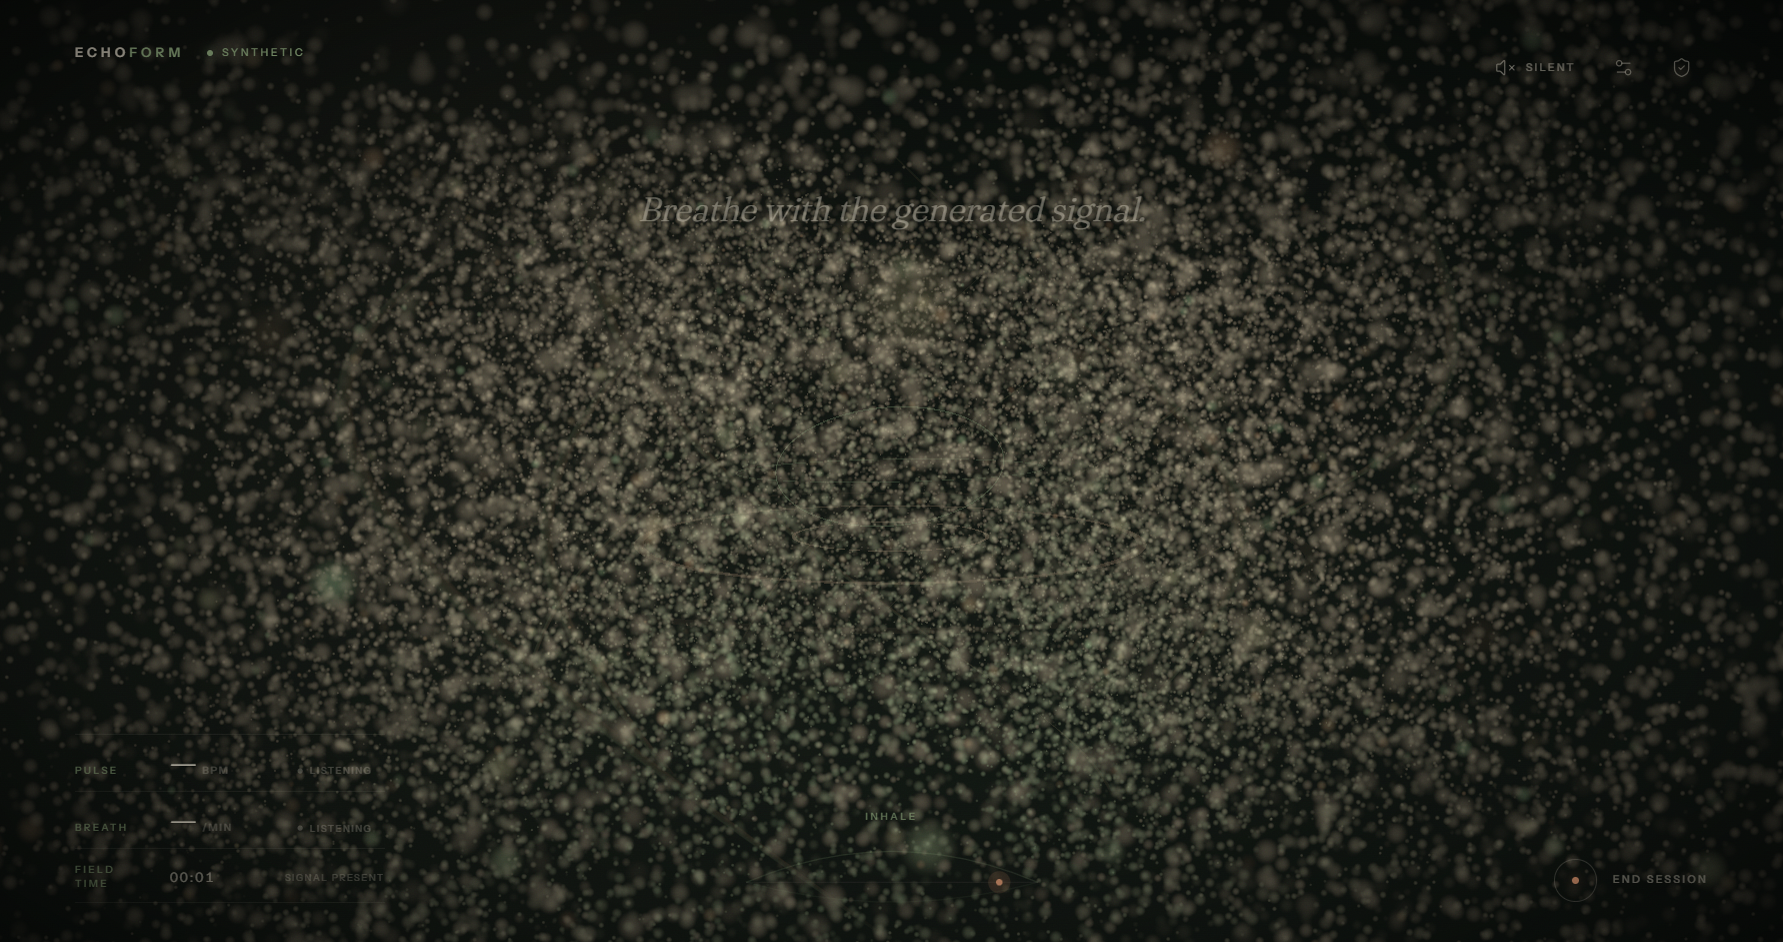
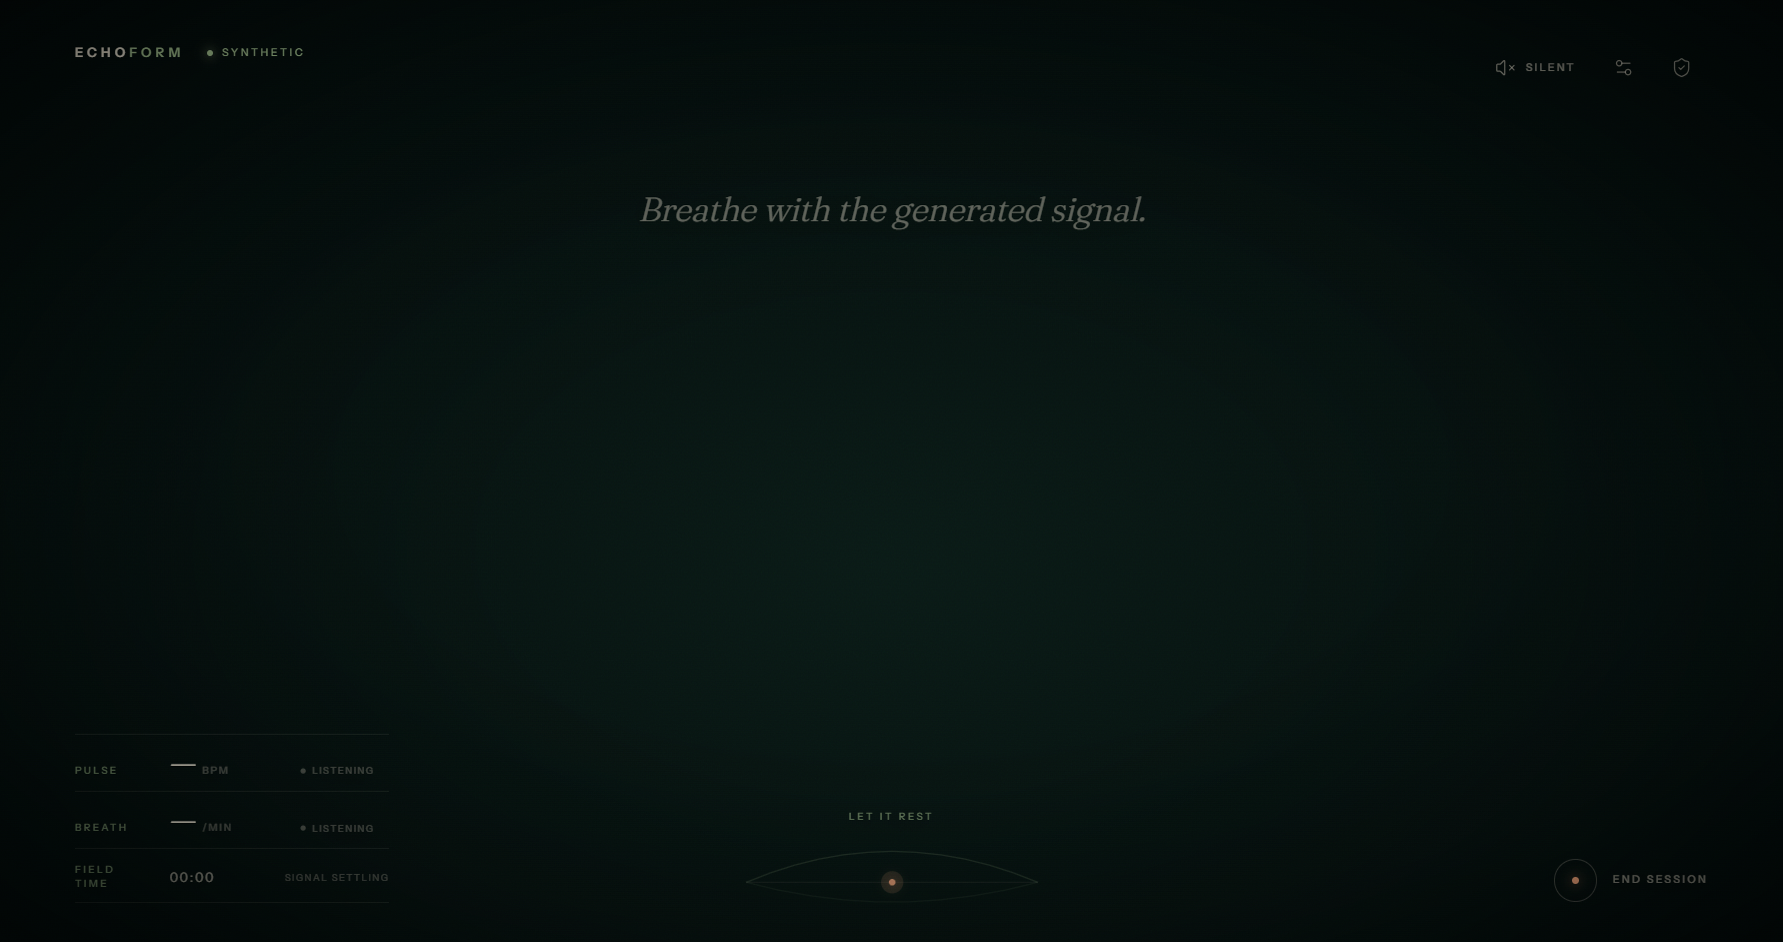
feat: update visual QA capture logic and enhance scene rendering parameters

diff --git a/src/world/Scene.tsx b/src/world/Scene.tsx
@@ -25,8 +25,6 @@ interface Props {
   replayDuration?: number;
 }
 
-const GROWTH_SECONDS = 240;
-
 /**
  * Converts the UI phase + the latest signal frame into the mutable uniform
  * contract every world component reads. Runs before the visual layers so the
@@ -41,9 +39,9 @@ function WorldState({ phase, reducedMotion, replayDuration }: Omit<Props, 'palet
 
     const worldActive = phase === 'attuning' || phase === 'alive' || phase === 'replay';
     const presenceFloor =
-      phase === 'threshold' || phase === 'consent' ? 0.1 : phase === 'archive' ? 0.02 : 0;
+      phase === 'threshold' || phase === 'consent' ? 0.15 : phase === 'archive' ? 0.02 : 0;
     let presenceTarget = Math.max(frame.presence, presenceFloor);
-    if (phase === 'echo') presenceTarget = 0.14;
+    if (phase === 'echo') presenceTarget = 0.2;
     if (phase === 'archive') presenceTarget = 0.02;
 
     const awakeTarget =
@@ -62,14 +60,17 @@ function WorldState({ phase, reducedMotion, replayDuration }: Omit<Props, 'palet
     const phase01 = running && phase !== 'echo' ? frame.pulse.beatPhase : (t * 0.94) % 1;
     const pulse = Math.exp(-phase01 * 4.3) * (running && phase !== 'echo' ? 1 : 0.42);
 
-    let growthTarget = 0.18;
-    if (phase === 'attuning') growthTarget = 0.24;
-    if (phase === 'alive' || phase === 'echo') {
-      growthTarget = 0.24 + 0.76 * (1 - Math.exp(-frame.t / 95));
+    let growthTarget = 0.26;
+    if (phase === 'attuning') growthTarget = 0.34;
+    if (phase === 'alive') {
+      growthTarget = 0.4 + 0.6 * (1 - Math.exp(-frame.t / 120));
+    }
+    if (phase === 'echo') {
+      growthTarget = 0.4 + 0.6 * (1 - Math.exp(-(frame.t || 150) / 120));
     }
     if (phase === 'replay') {
       const elapsed = replayDuration ?? 0;
-      growthTarget = 0.24 + 0.76 * (1 - Math.exp(-elapsed / 95));
+      growthTarget = 0.4 + 0.6 * (1 - Math.exp(-elapsed / 120));
     }
 
     const s = worldSignals;

diff --git a/src/world/shaders.ts b/src/world/shaders.ts
@@ -201,7 +201,7 @@ void main() {
   vec3 col = mix(uCore * 0.6, uCoreHot * 1.5, uPulse * 0.65);
   col = mix(col, uField, fres * 0.5);
 
-  float alpha = (0.16 + fres * 0.78 + uPulse * 0.16) * uPresence;
+  float alpha = (0.24 + fres * 0.8 + uPulse * 0.22) * uPresence;
   gl_FragColor = vec4(col, alpha);
 }
 `;
@@ -227,7 +227,7 @@ void main() {
   float a = smoothstep(1.0, 0.0, d);
   a = pow(a, 2.6);
   vec3 col = mix(uCoreHot, uCore, a);
-  gl_FragColor = vec4(col * 1.25, a * (0.12 + uPulse * 0.24) * uPresence);
+  gl_FragColor = vec4(col * 1.25, a * (0.18 + uPulse * 0.28) * uPresence);
 }
 `;
 
@@ -274,7 +274,7 @@ varying float vAlpha;
 void main() {
   vec3 col = mix(uColorA, uColorB, smoothstep(0.0, 0.85, vProgress));
   col = mix(col, uCore, vTip * 0.9);
-  float a = vAlpha * (0.24 + 0.62 * vTip);
+  float a = vAlpha * (0.32 + 0.6 * vTip);
   if (a < 0.004) discard;
   gl_FragColor = vec4(col, a);
 }
@@ -375,7 +375,16 @@ void main() {
   float aurora = sin(dir.x * 3.6 + uTime * 0.045)
     * sin(dir.z * 2.4 - uTime * 0.032)
     * smoothstep(0.1, 0.85, h);
-  col += uAccent * max(0.0, aurora) * 0.018 * (0.4 + uPresence * 0.6);
+  col += uAccent * max(0.0, aurora) * 0.025 * (0.4 + uPresence * 0.6);
+
+  // A quiet luminous depth behind the organism, so the horizon never reads
+  // as flat black.
+  vec3 towardField = normalize(vec3(0.0, 0.0, -1.0));
+  float halo = pow(max(0.0, dot(dir, towardField)), 5.0);
+  col += uAccent * halo * 0.055 * (0.35 + uPresence * 0.65);
+  float horizon = exp(-abs(dir.y + 0.02) * 11.0);
+  col += uAccent * horizon * 0.028 * (0.3 + uPresence * 0.7);
+
   gl_FragColor = vec4(col, 1.0);
 }
 `;

diff --git a/src/world/components/Core.tsx b/src/world/components/Core.tsx
@@ -72,7 +72,7 @@ export function Core({ palette }: Props) {
   return (
     <group ref={group} position={[0, 0.22, 0]}>
       <mesh>
-        <icosahedronGeometry args={[0.54, 7]} />
+        <icosahedronGeometry args={[0.68, 7]} />
         <shaderMaterial
           uniforms={coreUniforms}
           vertexShader={coreVertex}
@@ -86,7 +86,7 @@ export function Core({ palette }: Props) {
 
       <Billboard>
         <mesh>
-          <planeGeometry args={[7.4, 7.4]} />
+          <planeGeometry args={[8.8, 8.8]} />
           <shaderMaterial
             uniforms={haloUniforms}
             vertexShader={haloVertex}
